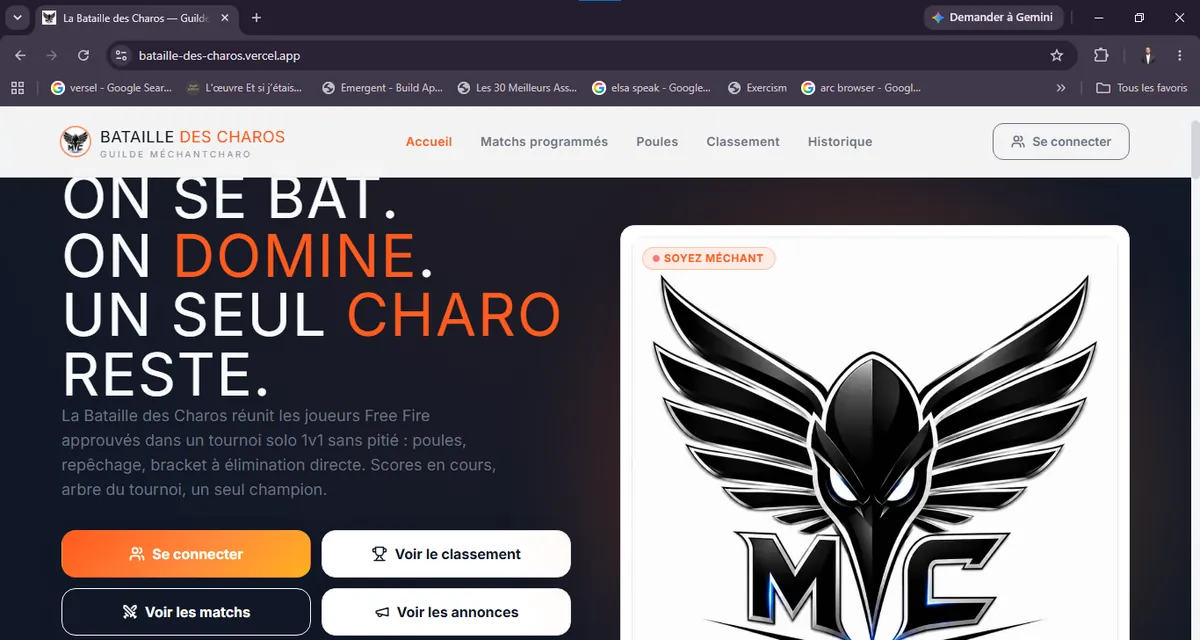
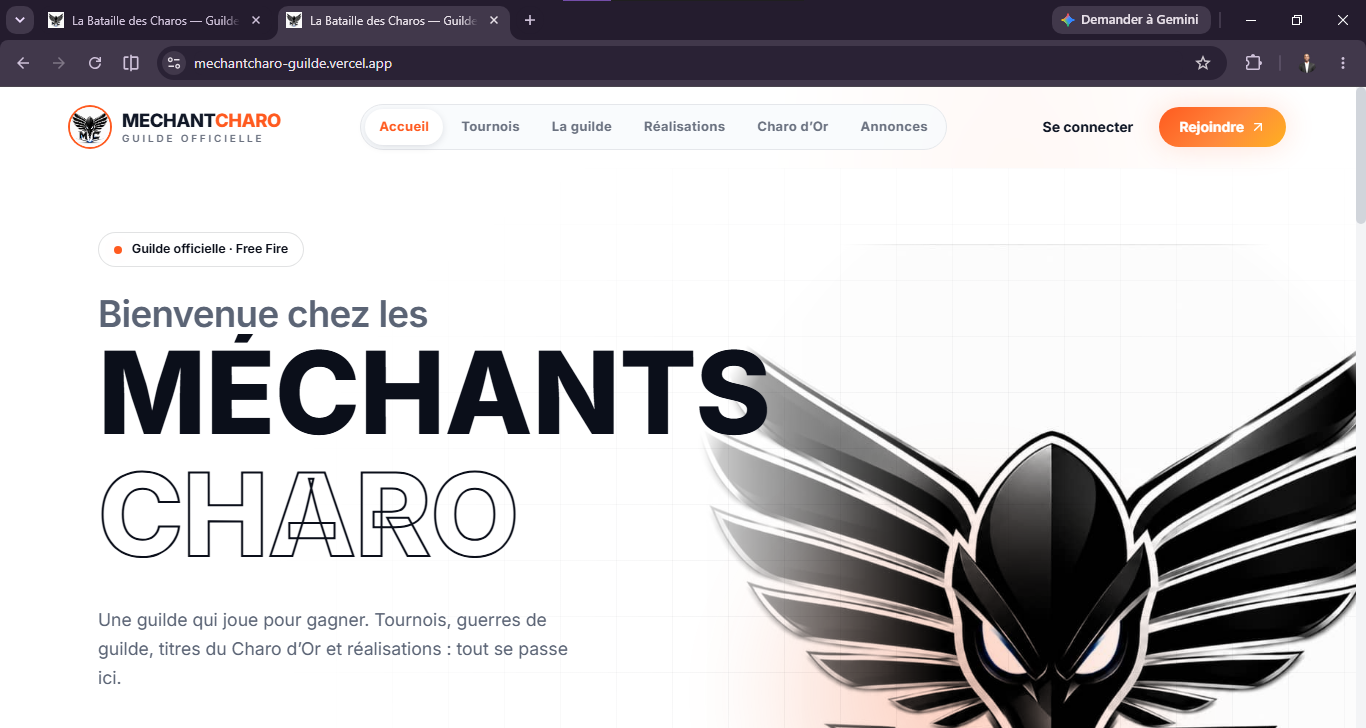
msa des photos

diff --git a/src/data/techs.js b/src/data/techs.js
@@ -58,7 +58,7 @@ export const SERVICE_ICONS = [
 ]
 
 export const PROJECTS = [
-  { type: 'web',     img: 'assets/img/photo3.webp', link: 'https://bataille-des-charos.vercel.app',
+  { type: 'web',     img: 'assets/img/photo3.webp', link: 'https://mechantcharo-guilde.vercel.app',
     tags: ['logos:react', 'logos:tailwindcss-icon', 'logos:framer', 'logos:supabase-icon'] },
   { type: 'web',     img: 'assets/img/photo4.webp', link: 'https://innovapdf.onrender.com',
     tags: ['logos:laravel', 'logos:vue', 'logos:typescript-icon', 'logos:tailwindcss-icon'] },
